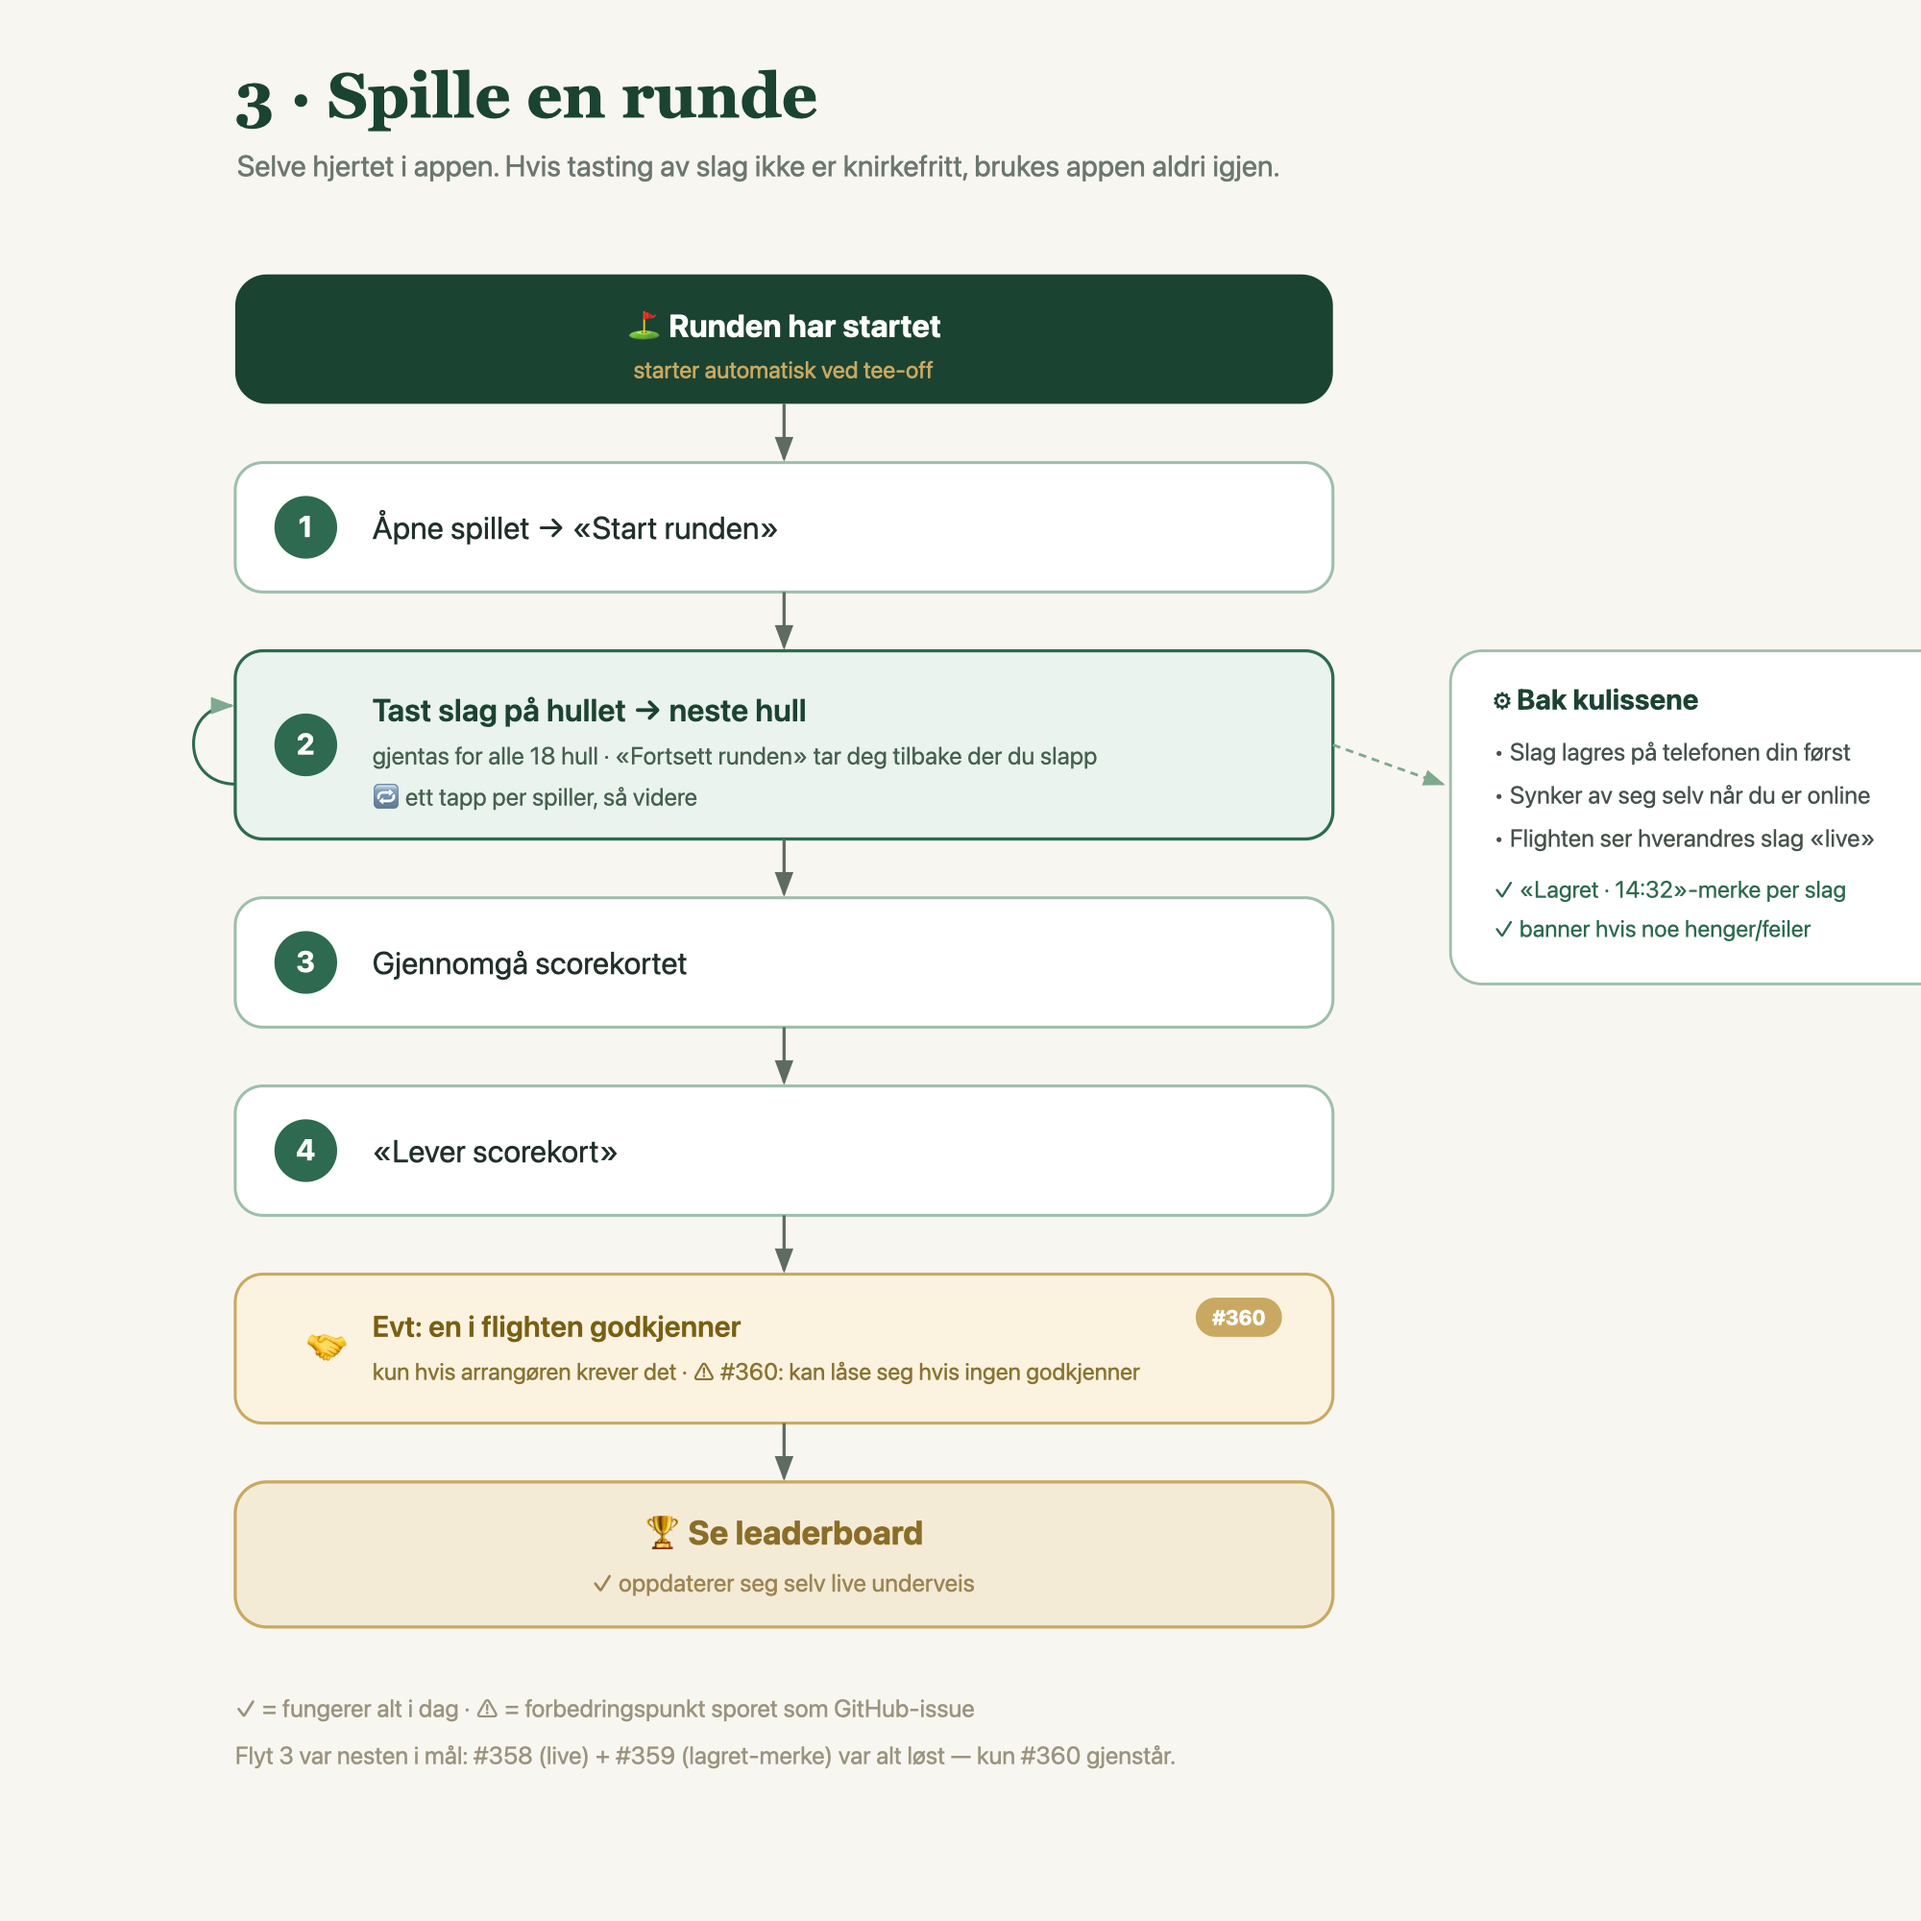
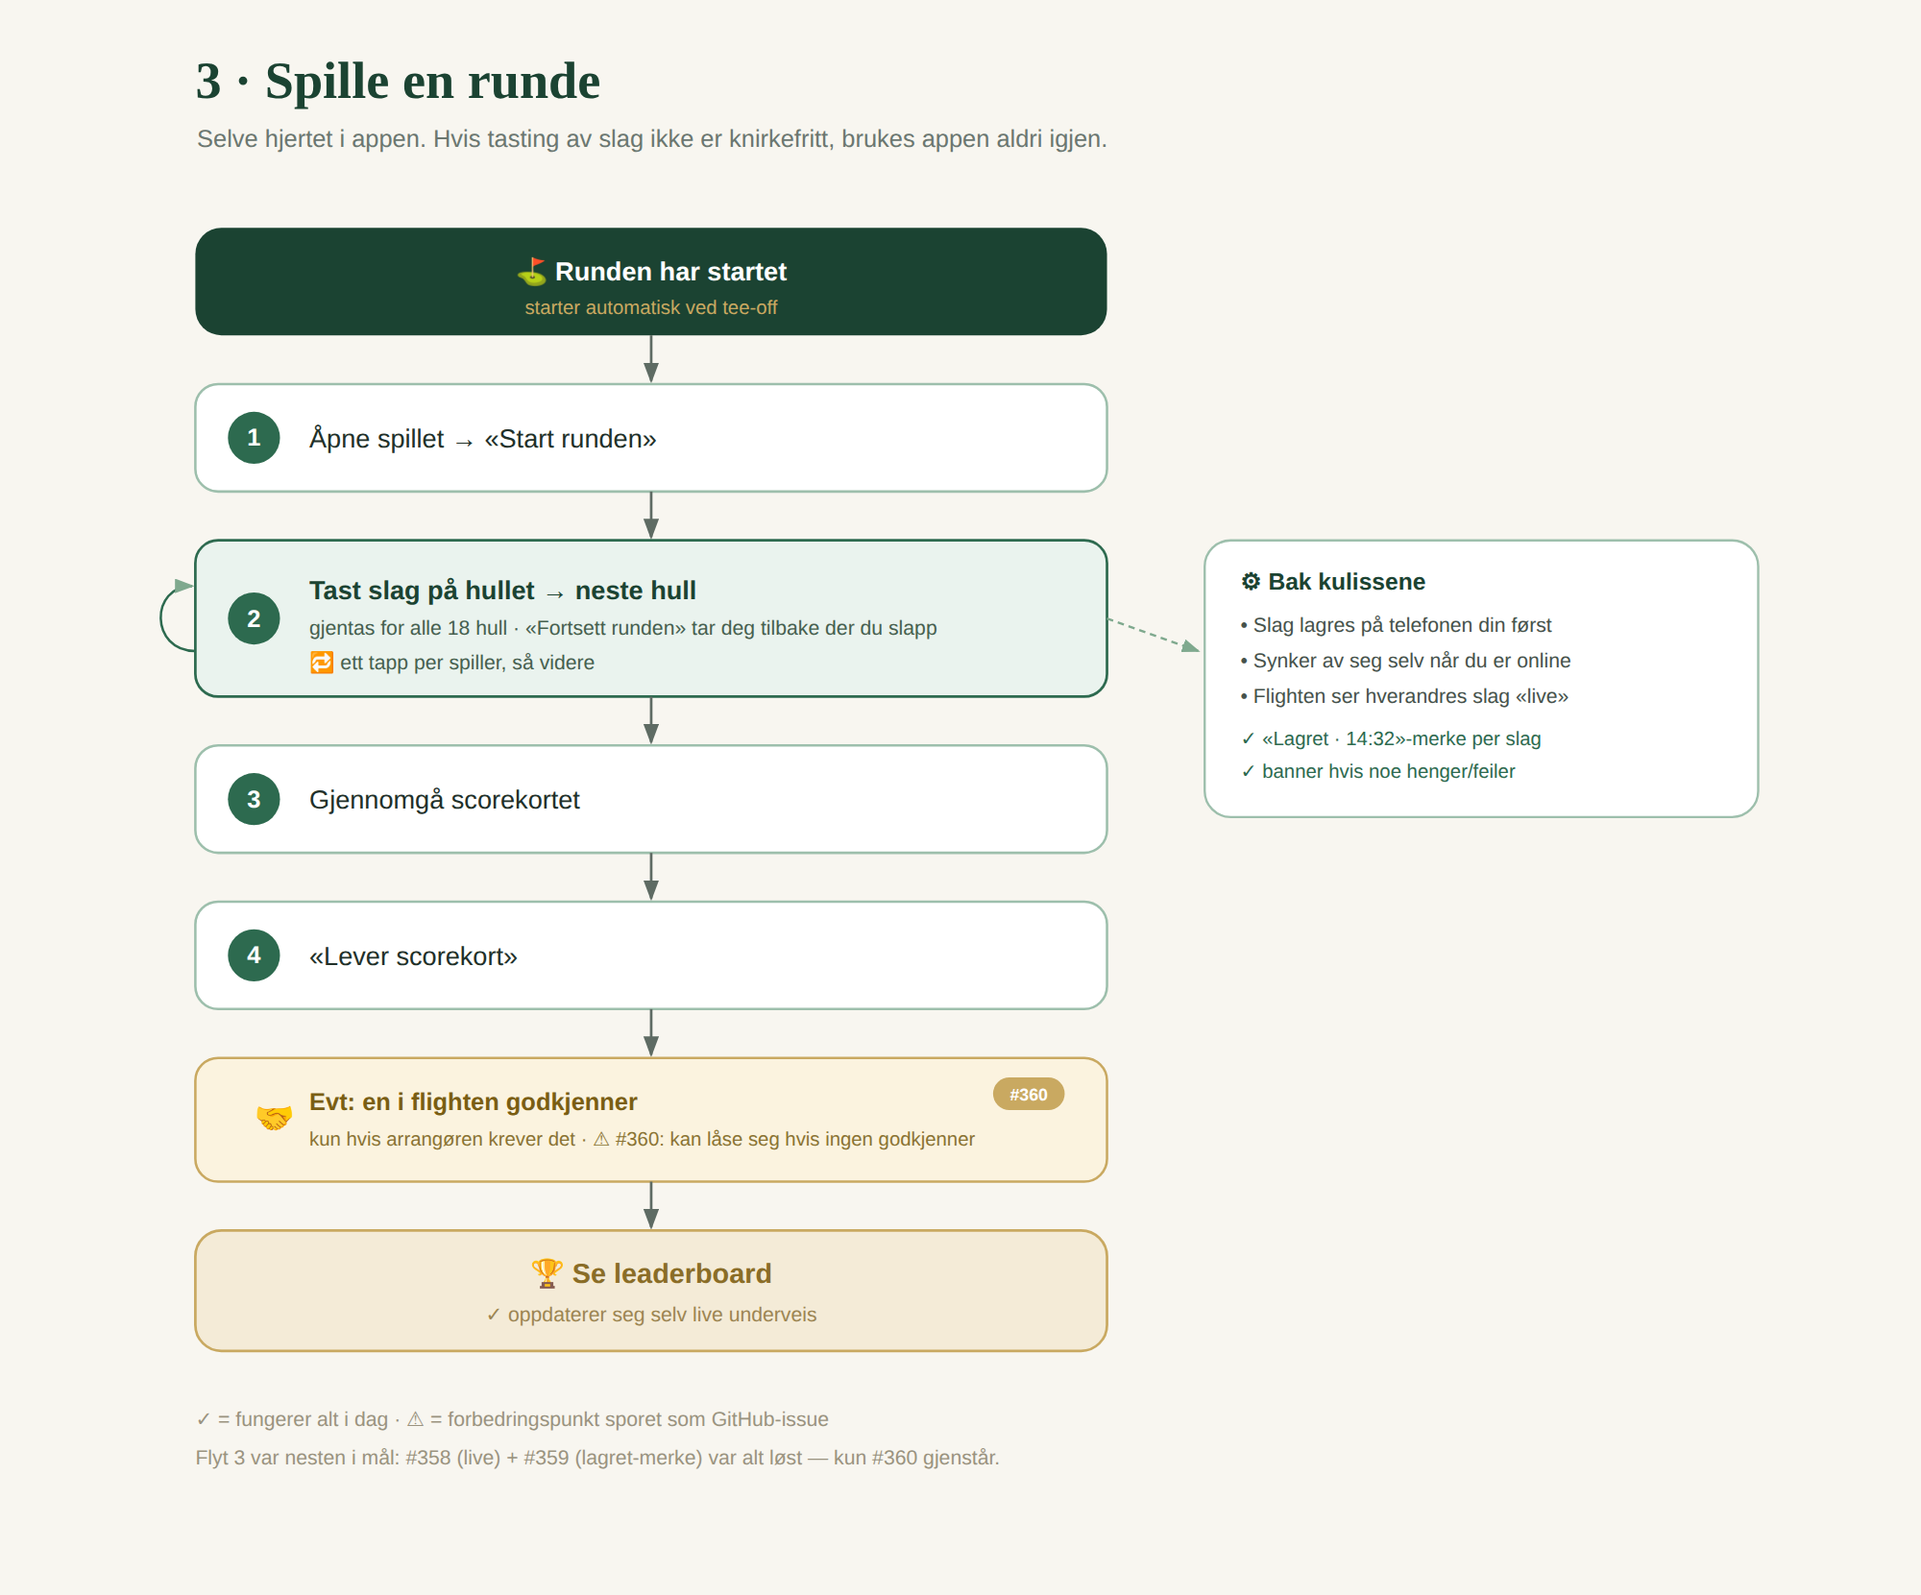
docs(flows): regenerate flow PNGs with aspect-correct renderer
The old `qlmanage -t -s 2000` recipe rendered a fixed 2000x2000 box, which
scaled wider-than-tall flow diagrams to the width and cropped content on the
right (annotation boxes cut mid-sentence on 06-liga). It was also macOS-only
and could not run in the Linux night-VM.

Replace it with a committed Playwright chromium script (docs/flows/regen-png.mjs)
that reads each SVG's viewBox and renders at width 2000 with the height following
the aspect ratio, filling the frame via deviceScaleFactor. Regenerate all 11
PNGs and update the README recipe. SVG sources untouched.

Refs #1260

# Conflicts:
#	docs/flows/01-bli-bruker-fremtid.png

diff --git a/docs/flows/README.md b/docs/flows/README.md
@@ -46,9 +46,20 @@ Spiller:   [1 Bli bruker] ─► [2 Bli med] ─► [3 Spille en runde]
 Hver flyt ble grunnet i faktisk kode før konklusjon. Det avdekket at auditen overdrev på flyt 3 (to av tre «funn» var alt løst), og at flere «mangler» egentlig var skrudd-av-funksjoner (selvregistrering) eller historiske låser (best ball = 8). Lærdom: verifiser mot koden før du bygger.
 
 ## Oppdatere diagrammene
-SVG-ene er kilden. Etter endring, regenerer PNG-ene:
+SVG-ene er kilden. Etter endring, regenerer PNG-ene fra repo-rota:
 
 ```bash
-cd docs/flows
-for f in *.svg; do qlmanage -t -s 2000 -o . "$f" && mv -f "$f.png" "${f%.svg}.png"; done
+node docs/flows/regen-png.mjs
+```
+
+Scriptet leser hver SVGs `viewBox` og rendrer med Playwright chromium ved bredde
+2000, med høyden bestemt av aspektforholdet — så diagrammene blir aspekt-riktige.
+Den gamle macOS-oppskriften rendret en fast 2000×2000-boks som beskar bredere-
+enn-høye diagrammer og ikke kjørte på Linux (jf. #1260).
+
+Matcher ikke miljøets pre-installerte chromium den pinnede Playwright-versjonen
+(«Executable doesn't exist», jf. #1183), pek på binæren direkte:
+
+```bash
+PW_CHROMIUM_EXECUTABLE_PATH=/opt/pw-browsers/chromium-<ver>/chrome-linux/chrome node docs/flows/regen-png.mjs
 ```

diff --git a/.forge/evaluations/1260-flyt-png-aspekt-runder.md b/.forge/evaluations/1260-flyt-png-aspekt-runder.md
@@ -1,0 +1,19 @@
+# Runde-historikk — 1260-flyt-png-aspekt (#1260)
+
+Per docs/forge-workflow.md → Konvergensregler (#1077). Én linje per evaluate-runde;
+finding-signaturer er normalisert `fil + kriterium`.
+
+| Runde | Verdikt | Finding-signaturer |
+|---|---|---|
+| 1 | ACCEPT | *(ingen — build-intern visuell selvsjekk fanget viewport-defekt før første commit)* |
+
+**Runde 1-notat:** Første implementasjon satte viewport `{width: 2000, height}` og
+`deviceScaleFactor: 1`. Aspekt-orakelet (Success Criterion 1) passerte — PNG-dimensjonene
+var korrekte — men den obligatoriske visuelle soft-confirmen (Criterion 4) avdekket at
+SVG-ene har eksplisitt `width/height` lik viewBox og dermed rendret i intrinsic-størrelse
+i øvre venstre hjørne med hvit luft rundt. Rettet i samme build-runde: viewport = intrinsic
+størrelse + `deviceScaleFactor = 2000/vbWidth`, slik at diagrammet fyller rammen. Re-rendret,
+oracle fortsatt grønt, visuell re-confirm på 06 + 02 bekreftet full-frame uten beskjæring.
+Ingen commit ble laget på den defekte varianten — dette var én build-iterasjon, ikke en
+evaluate-runde med rapportert finding. Kryss-modell-gaten (Steg 4.5) kjøres som uavhengig
+skeptisk gjennomsyn før levering.
